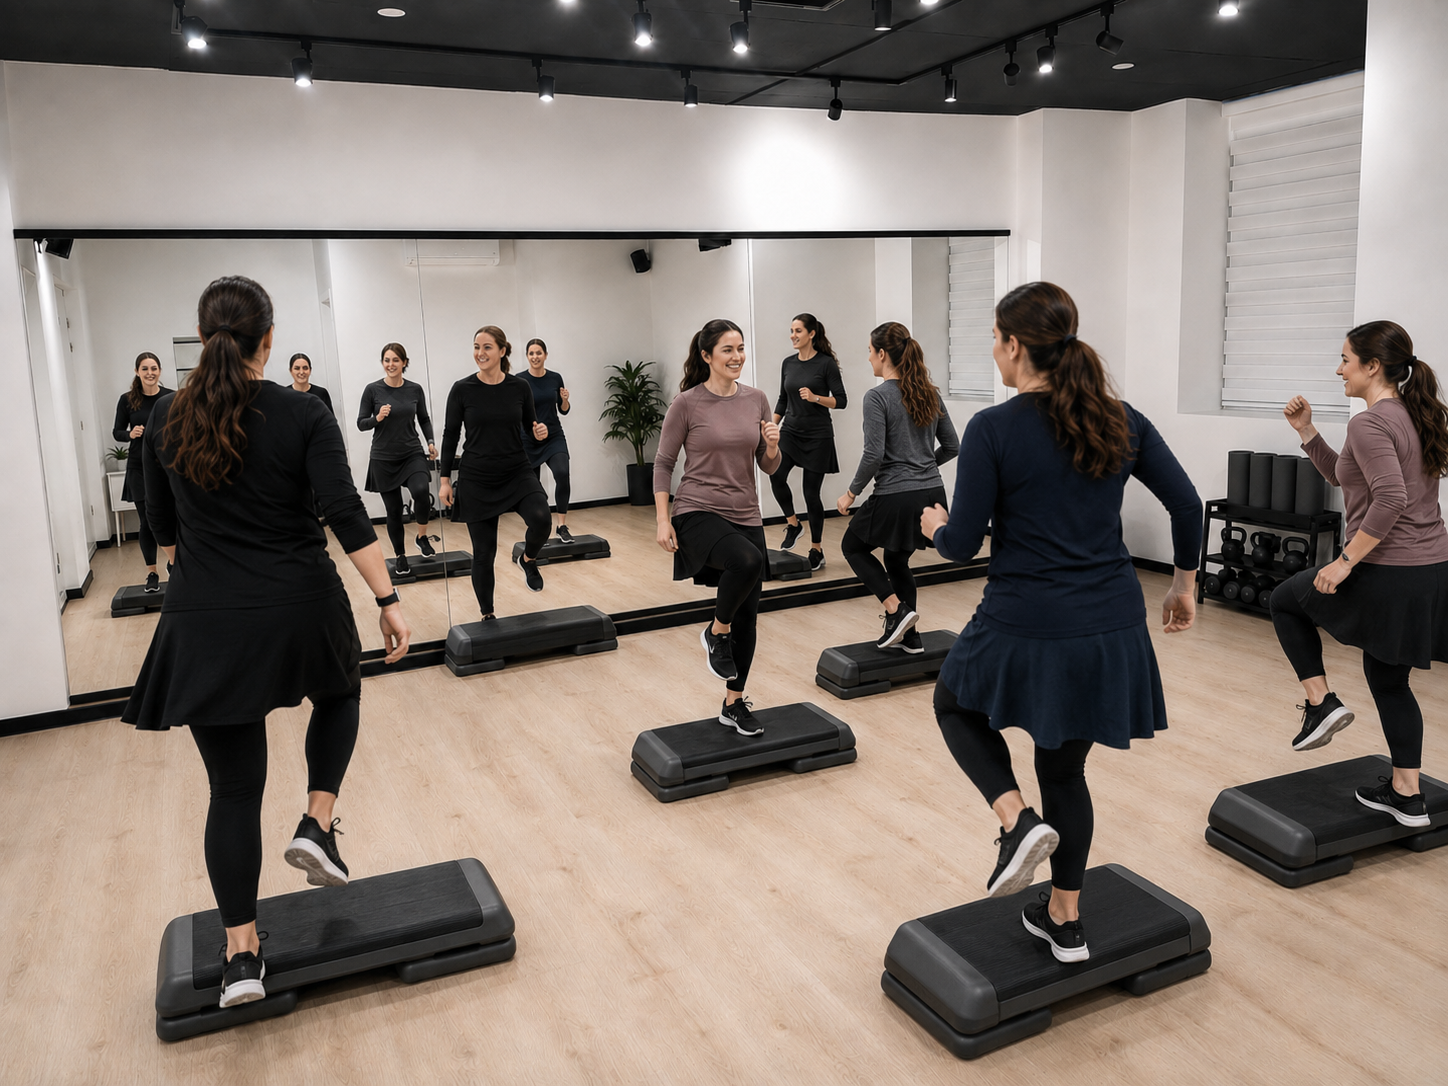
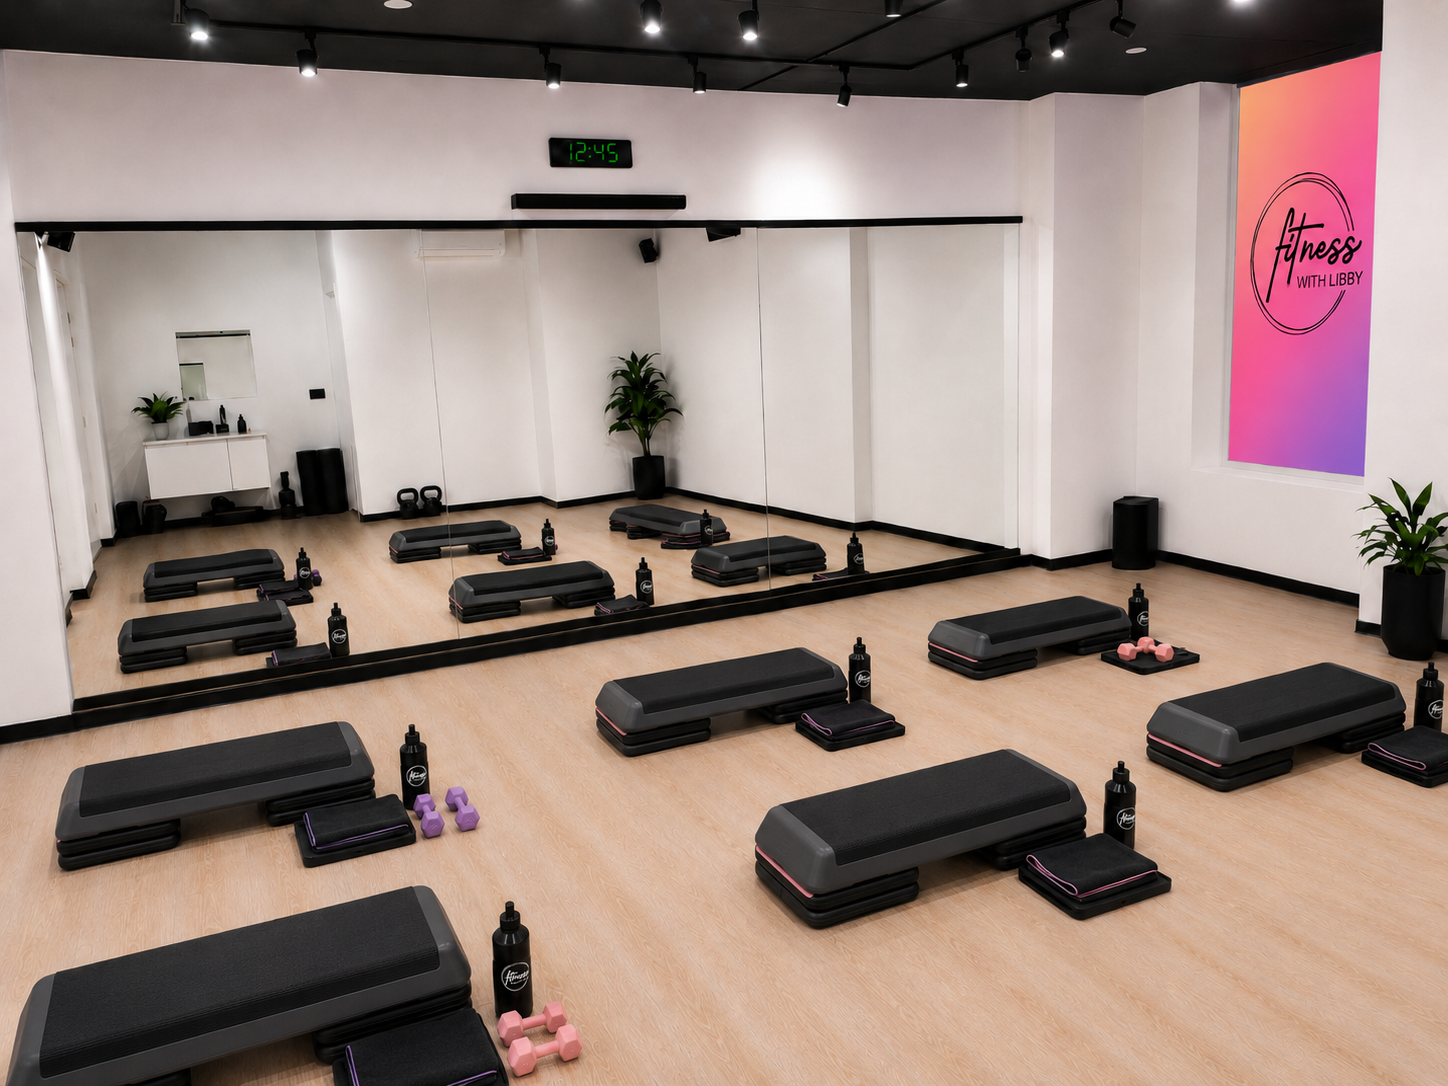
Refresh hero, classes, personal training, testimonials, section 2 animations
- Hero: use hero-final.png anchored bottom with a lighter mist so the full
  studio gradient stays vivid
- Classes: add Strengthen & Tone / Pilates / Step photos; swap Pilates↔Cardio
  and Step↔Teens Dance (numbers keep their positions); white number on the
  Pilates photo card
- Personal Training + final contact section: new images; dissolve the contact
  gradient into the plum footer to avoid a hard seam
- Testimonials: add Shani K. card (carousel auto-picks up the 4th slide)
- Section 2 ("A Place to Grow"): cursor-tilt cards with watermark parallax,
  springy staggered entrance, richer hover, and a line-by-line headline wipe;
  all gated behind prefers-reduced-motion

diff --git a/app/globals.css b/app/globals.css
@@ -34,17 +34,17 @@
   }
   .hero-bg{
     position:absolute;inset:0;z-index:0;
-    background:url('/hero-studio.png') center 32%/cover no-repeat;
+    background:url('/hero-final.png') center bottom/cover no-repeat;
     background-attachment:fixed;
   }
-  /* controlled central mist: clear headline area first, studio atmosphere second */
+  /* soft mist behind the headline only, so the full gradient stays vivid */
   .hero-bg::before{
     content:"";position:absolute;inset:0;
-    background:radial-gradient(52% 44% at 50% 44%,
-      rgba(253,251,249,.85) 0%,
-      rgba(253,251,249,.68) 38%,
-      rgba(253,251,249,.28) 68%,
-      transparent 92%);
+    background:radial-gradient(46% 38% at 50% 42%,
+      rgba(253,251,249,.55) 0%,
+      rgba(253,251,249,.34) 42%,
+      rgba(253,251,249,.12) 70%,
+      transparent 90%);
   }
 
   /* ============ NAV ============ */
@@ -206,6 +206,7 @@
     font-family:var(--font-brush),cursive;font-weight:400;
     font-size:.98em;
     text-transform:none;
+    display:inline-block;
   }
   .grow-title .dot{color:var(--plum)}
 
@@ -234,9 +235,10 @@
     /* target height for the vertical word ≈ the longest word's natural
        length, so shorter words (Kosher) only stretch a little */
     --word-h:calc(3.5 * clamp(48px,4.6vw,64px));
-    transition:transform .3s cubic-bezier(.22,1,.36,1),box-shadow .3s;
+    transform:perspective(1000px) rotateX(var(--rx,0deg)) rotateY(var(--ry,0deg)) translateY(var(--lift,0px));
+    transition:transform .2s ease-out,box-shadow .3s;
   }
-  .card:hover{transform:translateY(-8px);box-shadow:0 24px 50px -20px rgba(51,18,48,.35)}
+  .card:hover{--lift:-10px;box-shadow:0 26px 54px -20px rgba(51,18,48,.4)}
 
   .card-1{
     background:linear-gradient(175deg,#F6A45D 0%,#EE7E68 48%,#E9647F 100%);
@@ -276,6 +278,8 @@
     letter-spacing:.02em;
     white-space:nowrap;
     flex-shrink:0;
+    translate:calc(var(--px,0) * -6px) calc(var(--py,0) * -6px);
+    transition:translate .2s ease-out,scale .3s ease,color .3s ease,opacity .3s ease;
     /* bottom-anchored, all words the same height so their tops line up with
        the heading — shorter words (Kosher) stretch a little to fill it */
     height:var(--word-h);
@@ -284,6 +288,8 @@
     text-justify:inter-character;
   }
   .card-1 .card-word{color:rgba(255,255,255,.92)}
+  .card:hover .card-word{scale:1.05}
+  .card-1:hover .card-word{color:#fff}
 
   .card-text{
     align-self:flex-end;
@@ -305,6 +311,8 @@
   .doodle.tr{top:22px;right:22px}
   .doodle.br{bottom:20px;right:22px}
   .doodle.bl{bottom:20px;left:50%}
+  .card .doodle{transition:translate .35s ease,rotate .35s ease}
+  .card:hover .doodle{translate:3px -3px;rotate:12deg}
 
   @media(max-width:1020px){
     .cards{grid-template-columns:repeat(2,1fr)}
@@ -565,7 +573,7 @@
   .s5{grid-area:s5;background:#FBF1EA;color:var(--plum);border:1px solid rgba(51,18,48,.22)}
   .s6{grid-area:s6;background:var(--plum);color:#fff}
   .s7{grid-area:s7;background:linear-gradient(160deg,#E9647F 0%,#DE2160 100%);color:#fff}
-  .s3 .num,.s5 .num{color:var(--magenta);opacity:1}
+  .s5 .num{color:var(--magenta);opacity:1}
 
   /* ============ SECTION 5 — PERSONAL TRAINING ============ */
   .train{
@@ -1136,6 +1144,13 @@
     background:url('/last-section.png') center/cover no-repeat, #FFFDFB;
     padding:clamp(80px,11vh,130px) clamp(24px,4.5vw,64px);
   }
+  /* dissolve the image into the plum footer instead of a hard seam */
+  .contact::after{
+    content:"";position:absolute;left:0;right:0;bottom:0;
+    height:clamp(90px,15vh,170px);
+    background:linear-gradient(to bottom, rgba(53,20,62,0), var(--plum));
+    z-index:0;pointer-events:none;
+  }
   .contact-inner{
     position:relative;z-index:1;
     max-width:1120px;margin:0 auto;
@@ -1473,24 +1488,37 @@ html, body { max-width: 100%; }
    Scroll-in reveal — "A Place to Grow" title flows in, then the
    four cards stagger in one at a time (JS adds .is-in when visible)
    ============================================================ */
-.grow-title{
-  opacity:0; transform:translateY(34px);
-  transition:opacity .75s cubic-bezier(.22,1,.36,1), transform .75s cubic-bezier(.22,1,.36,1);
+/* headline reveals line by line (clip wipe), then the script "week" signs in */
+.grow-title .gt-line{
+  display:block;
+  clip-path:inset(0 0 108% 0);
+  transition:clip-path .8s cubic-bezier(.22,1,.36,1);
 }
+.grow-title.is-in .gt-line{ clip-path:inset(0 0 -14% 0); }
+.grow-title.is-in .gt-line:nth-child(1){ transition-delay:.05s; }
+.grow-title.is-in .gt-line:nth-child(2){ transition-delay:.24s; }
+.grow-title .script{ clip-path:inset(0 108% 0 -8%); transition:clip-path .7s cubic-bezier(.22,1,.36,1); }
+.grow-title.is-in .script{ clip-path:inset(0 -8% 0 -8%); transition-delay:.56s; }
 .grow .cards .card{
-  opacity:0; transform:translateY(44px);
-  transition:opacity .7s cubic-bezier(.22,1,.36,1), transform .7s cubic-bezier(.22,1,.36,1), box-shadow .3s;
+  opacity:0; translate:0 46px; scale:.94;
+  transition:opacity .7s cubic-bezier(.22,1,.36,1),
+             translate .7s cubic-bezier(.34,1.56,.64,1),
+             scale .7s cubic-bezier(.34,1.56,.64,1),
+             transform .2s ease-out,
+             box-shadow .3s;
 }
-.grow-title.is-in,
-.grow .cards .card.is-in{ opacity:1; transform:none; }
-/* one card at a time */
-.grow .cards .card:nth-child(1).is-in{ transition-delay:.05s; }
-.grow .cards .card:nth-child(2).is-in{ transition-delay:.20s; }
-.grow .cards .card:nth-child(3).is-in{ transition-delay:.35s; }
-.grow .cards .card:nth-child(4).is-in{ transition-delay:.50s; }
+.grow-title.is-in{ opacity:1; transform:none; }
+.grow .cards .card.is-in{ opacity:1; translate:0 0; scale:1; }
+/* one card at a time — delay only the entrance props, keep tilt/lift instant
+   (order: opacity, translate, scale, transform, box-shadow) */
+.grow .cards .card:nth-child(1).is-in{ transition-delay:.05s,.05s,.05s,0s,0s; }
+.grow .cards .card:nth-child(2).is-in{ transition-delay:.20s,.20s,.20s,0s,0s; }
+.grow .cards .card:nth-child(3).is-in{ transition-delay:.35s,.35s,.35s,0s,0s; }
+.grow .cards .card:nth-child(4).is-in{ transition-delay:.50s,.50s,.50s,0s,0s; }
 
 @media (prefers-reduced-motion: reduce){
-  .grow-title, .grow .cards .card{ opacity:1; transform:none; transition:none; }
+  .grow-title, .grow .cards .card{ opacity:1; transform:none; translate:none; scale:none; transition:none; }
+  .grow-title .gt-line, .grow-title .script{ clip-path:none; transition:none; }
 }
 
 /* ============================================================

diff --git a/app/components/Sections.tsx b/app/components/Sections.tsx
@@ -11,8 +11,8 @@ export function Values() {
       </div>
 
       <h2 className="grow-title">
-        Warm Welcome. Real Work.
-        <span className="line2">
+        <span className="gt-line">Warm Welcome. Real Work.</span>
+        <span className="gt-line line2">
           Stronger Every <span className="script">week</span>
           <span className="dot">.</span>
         </span>
@@ -202,6 +202,8 @@ export function Classes() {
         </div>
 
         <div className="b-style s1">
+          <img className="ph" src="/style-strengthen-tone.png" alt="" />
+          <div className="shade" />
           <span className="num">01</span>
           <svg className="doodle br" width="26" height="18" viewBox="0 0 26 18" fill="none">
             <circle cx="4" cy="4" r="2" fill="currentColor" opacity=".8" />
@@ -214,8 +216,6 @@ export function Classes() {
         </div>
 
         <div className="b-style s2">
-          <img className="ph" src="/style-dance-fit.png" alt="" />
-          <div className="shade" />
           <span className="num">02</span>
           <span className="name">
             Dance <i>Fit</i>
@@ -223,20 +223,22 @@ export function Classes() {
         </div>
 
         <div className="b-style s3">
+          <img className="ph" src="/style-pilates.png" alt="" />
+          <div className="shade" />
           <span className="num">03</span>
-          <span className="name">Cardio</span>
+          <span className="name">Pilates</span>
         </div>
 
         <div className="b-style s4">
-          <img className="ph" src="/style-step.png" alt="" />
-          <div className="shade" />
           <span className="num">04</span>
-          <span className="name">Step</span>
+          <span className="name">
+            Teens <i>Dance</i>
+          </span>
         </div>
 
         <div className="b-style s5">
           <span className="num">05</span>
-          <span className="name">Pilates</span>
+          <span className="name">Cardio</span>
         </div>
 
         <div className="b-style s6">
@@ -245,10 +247,10 @@ export function Classes() {
         </div>
 
         <div className="b-style s7">
+          <img className="ph" src="/style-step.png" alt="" />
+          <div className="shade" />
           <span className="num">07</span>
-          <span className="name">
-            Teens <i>Dance</i>
-          </span>
+          <span className="name">Step</span>
         </div>
       </div>
     </section>
@@ -408,6 +410,20 @@ export function Testimonials() {
             <div className="sig">
               <span className="sig-name">Yehudit</span>
               <span className="sig-sub">Yehudit S. · Studio Member</span>
+            </div>
+          </div>
+          <div className="t-card v-cream" data-pos="3">
+            <span className="qmark">&ldquo;</span>
+            <blockquote>
+              Libby&rsquo;s classes are truly the highlight of my week. She is so
+              in tune with the women who come, and she gives such thoughtful
+              attention to each person. You can really feel how much she cares,
+              and she creates an atmosphere that makes everyone feel seen,
+              supported, and motivated.
+            </blockquote>
+            <div className="sig">
+              <span className="sig-name">Shani</span>
+              <span className="sig-sub">Shani K. · Studio Member</span>
             </div>
           </div>
         </div>

diff --git a/app/components/SiteInteractions.tsx b/app/components/SiteInteractions.tsx
@@ -211,6 +211,40 @@ export default function SiteInteractions() {
       }
     }
 
+    /* ---- section 2 cards: cursor tilt + word parallax ---- */
+    const prefersReduced = window.matchMedia?.(
+      "(prefers-reduced-motion: reduce)"
+    ).matches;
+    const canHover = window.matchMedia?.("(hover: hover)").matches;
+    if (!prefersReduced && canHover) {
+      const tiltCards = Array.from(
+        document.querySelectorAll<HTMLElement>(".grow .cards .card")
+      );
+      tiltCards.forEach((card) => {
+        const onMove = (e: PointerEvent) => {
+          const r = card.getBoundingClientRect();
+          const px = (e.clientX - r.left) / r.width - 0.5; // -0.5..0.5
+          const py = (e.clientY - r.top) / r.height - 0.5;
+          card.style.setProperty("--ry", `${px * 9}deg`);
+          card.style.setProperty("--rx", `${-py * 9}deg`);
+          card.style.setProperty("--px", `${px * 2}`); // -1..1 for parallax
+          card.style.setProperty("--py", `${py * 2}`);
+        };
+        const onLeave = () => {
+          card.style.setProperty("--ry", "0deg");
+          card.style.setProperty("--rx", "0deg");
+          card.style.setProperty("--px", "0");
+          card.style.setProperty("--py", "0");
+        };
+        card.addEventListener("pointermove", onMove);
+        card.addEventListener("pointerleave", onLeave);
+        cleanups.push(() => {
+          card.removeEventListener("pointermove", onMove);
+          card.removeEventListener("pointerleave", onLeave);
+        });
+      });
+    }
+
     /* ---- contact form interest chips + submit guard ---- */
     const chips = Array.from(document.querySelectorAll<HTMLElement>(".c-chip"));
     const chipHandlers = chips.map((chip) => {